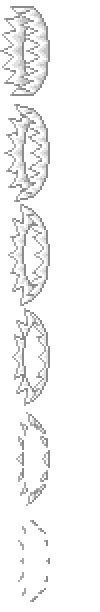
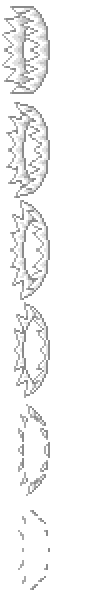
fixed smash sprite being a bit off

diff --git a/Content/Projectiles/Berserker/ShockwaveSmash.cs b/Content/Projectiles/Berserker/ShockwaveSmash.cs
@@ -22,7 +22,9 @@ namespace ArcaneOdyssey.Content.Projectiles.Berserker
 			Projectile.width = Projectile.height = 100;
 			Projectile.usesLocalNPCImmunity = true;
 			Projectile.friendly = true;
+            Projectile.penetrate = -1;
 			Projectile.ownerHitCheck = true;
+            Projectile.tileCollide = false;
 			Projectile.DamageType = DamageClass.MeleeNoSpeed;
 			Projectile.localNPCHitCooldown = -1;
 		}
@@ -44,10 +46,10 @@ namespace ArcaneOdyssey.Content.Projectiles.Berserker
 				Projectile.ai[0] = 1;
 			}
 
-			if (++Projectile.frameCounter > 1)
+			if (++Projectile.frameCounter > 2)
 			{
 				Projectile.frameCounter = 0;
-				BaseScale = 1 + (Projectile.frame * .1f);
+				BaseScale = 1 + (Projectile.frame * .2f);
 				if (++Projectile.frame >= Main.projFrames[Type])
 				{
 					Kill();
